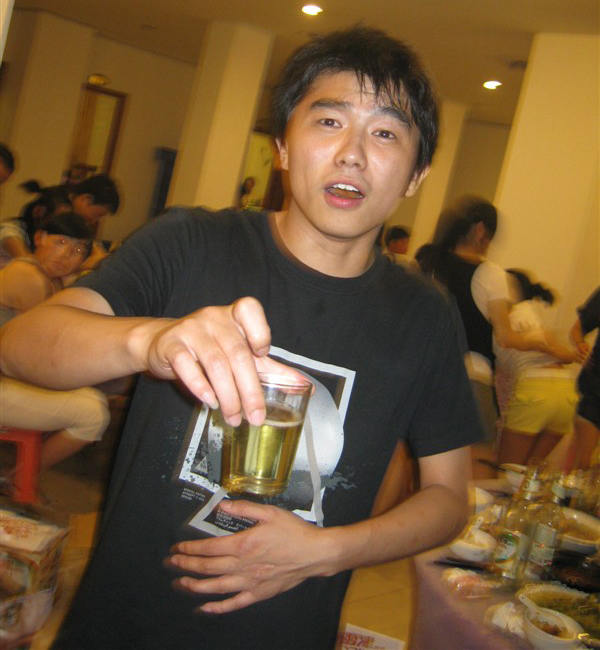
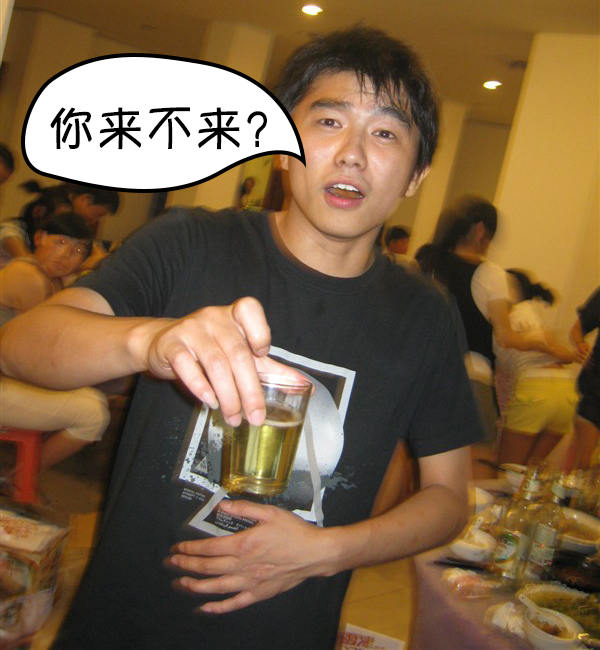
1.8

Changed region(s): [[0.03, 0.0615, 0.51, 0.3077]]

diff --git a/main.css b/main.css
@@ -207,7 +207,7 @@ body{
     background: #ffffff url("./images/76.jpg") no-repeat center;
     position: absolute;
     width: 90%;
-    height: 860px;
+    height: 700px;
     margin: 5%;
     box-sizing: border-box;
     text-align: center;

diff --git a/index.html b/index.html
@@ -30,7 +30,6 @@
     </div>
 </div>
 <div class="come">
-    <span>你来不来？</span>
 </div>
 </div>
 
